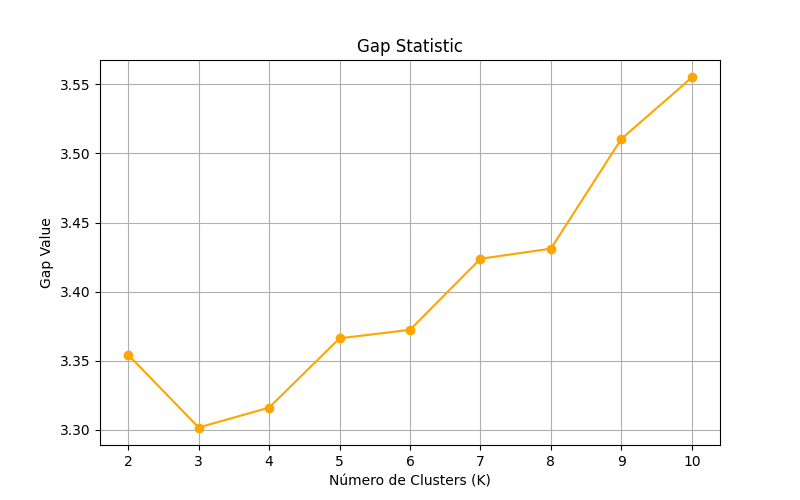
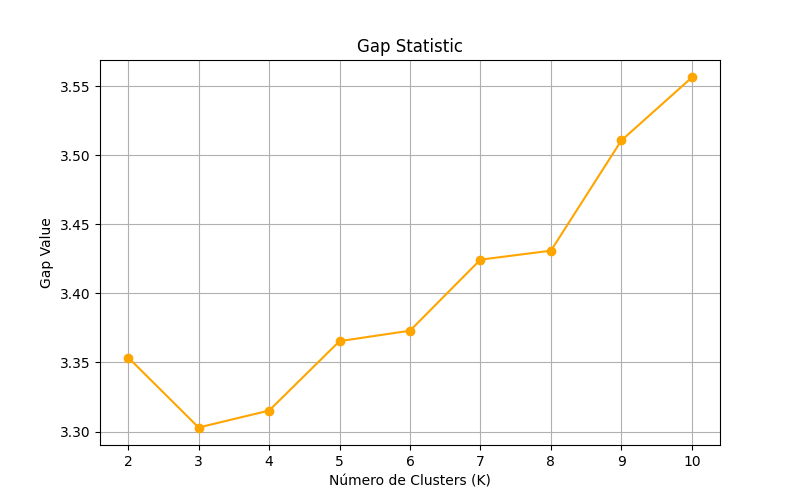
solved ruff

diff --git a/main.py b/main.py
@@ -3,9 +3,11 @@ Script Maestro de Ejecución (main.py) - NYC Airbnb Data Mining
 ============================================================
 Orquestador del pipeline completo con generación masiva de tablas e imágenes.
 """
+
 # ruff: noqa: I001
 import matplotlib
-matplotlib.use('Agg')
+
+matplotlib.use("Agg")
 
 import sys
 from pathlib import Path